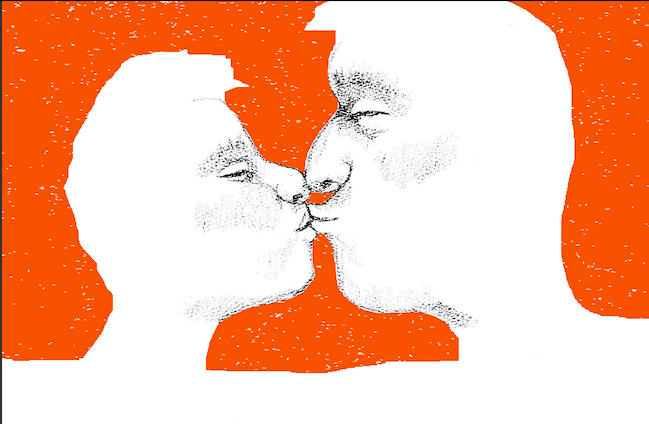
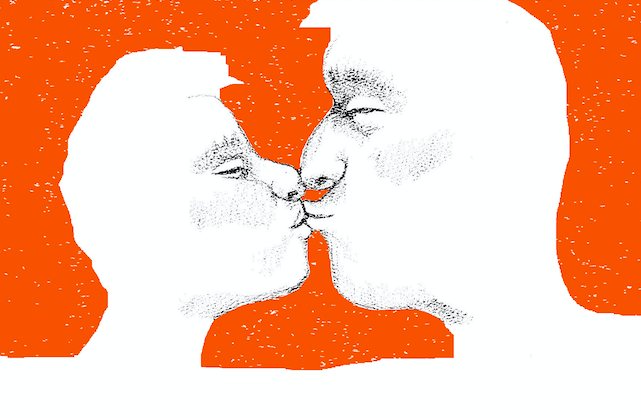
thumbnail class

diff --git a/index.css b/index.css
@@ -109,3 +109,7 @@ footer {
   font-size: 12px;
   color: white;
 }
+
+.thumbnail {
+  height: 100px;
+}

diff --git a/README.md b/README.md
@@ -1,3 +1,3 @@
-<img class="h-25" src="images/cdh6.png" alt="">
+<img class="thumbnail" src="images/cdh6.png" alt="">
 <h3><strong>Illustration Portfolio</strong></h3>
 <p>Simple and responsive layout</p>
